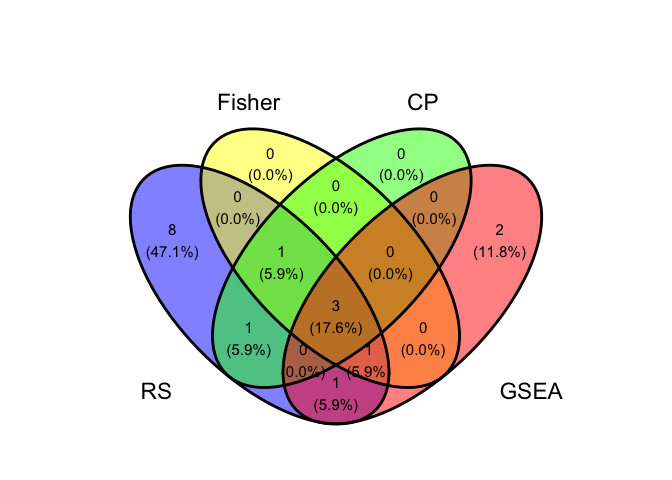
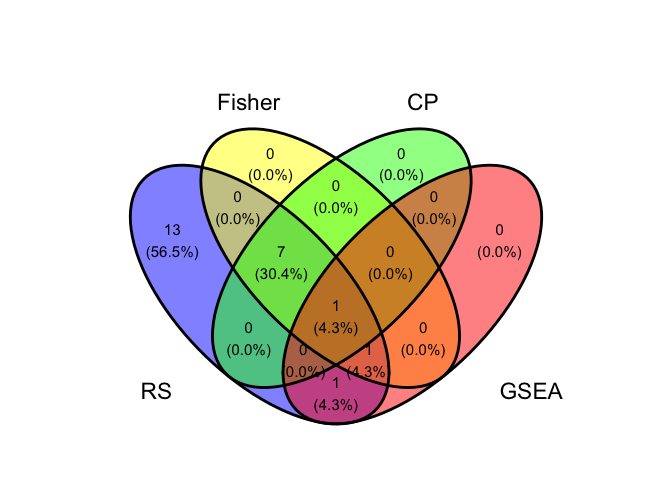
8.10

diff --git a/README.md b/README.md
@@ -14,13 +14,13 @@ output:
 
 # ReporterScore
 
-ReporterScore Functional Enrichment Method for Microbiome
+Reporter Score-based Microbial Enrichment Analysis
 
 # Citation
 
 To cite ReporterScore in publications use:
 
-  Chen Peng, Chao Jiang. ReporterScore: an R package for ReporterScore Functional Enrichment in Microbiome. R package (2023),
+  Chen Peng, Chao Jiang. ReporterScore: an R package for Reporter Score-based Microbial Enrichment Analysis. R package (2023),
   <https://github.com/Asa12138/ReporterScore>
 
 ## Install
@@ -39,7 +39,7 @@ library(ReporterScore)
 
 Typically, we can use [KEGG database](https://www.kegg.jp/kegg/) to annotate our microbiome sequencing data, especially environmental microbiome because KEGG is more comprehensive.
 
-Specific methods include using blast to compare the KEGG sequence database, using KEGG official comparison software, and using the [EggNOG database](http://eggnog5.embl.de/#/app/home) and converting the results into KEGG annotations.
+Specific methods include using blast to align the KEGG sequence database, using KEGG official mapper software, and using the [EggNOG database](http://eggnog5.embl.de/#/app/home) and converting the results into KEGG annotations.
 
 So that we can get a KO abundance table (rows are KOs, columns are samples) for our enrichment analysis:
 
@@ -78,7 +78,7 @@ head(metadata)
 
 ### 2. Pathway database
 
-`ReporterScore` has built-in KEGG pathway and module databases (2023-5 version) for KO abundance table.
+`ReporterScore` has built-in KEGG pathway and module databases (2023-08 version) for KO abundance table.
 
 You can use `load_KOlist()` to have a look and use `update_KO_file()` to update these databases (by KEGG API) as using latest database is very important.
 
@@ -295,9 +295,8 @@ So that you can get reporterscore step by step.
 
 
 ```r
-set.seed(12)
 data("KO_abundance_test")
-reporter_score_res2=reporter_score(KO_abundance,"Group",metadata,mode="mixed",method = "t.test")
+reporter_score_res2=reporter_score(KO_abundance,"Group",metadata,mode="mixed")
 #View(reporter_score_res2$reporter_s)
 #reporter_score
 reporter_score_res2$reporter_s$p.adjust=p.adjust(reporter_score_res2$reporter_s$p.value,"BH")
@@ -310,6 +309,7 @@ filter(fisher_res,p.adjust<0.05)%>%pull(ID)->Fisher
 enrich_res=KO_enrich(ko_pvalue)
 filter(enrich_res,p.adjust<0.05)%>%pull(ID)->clusterProfiler
 #GESA
+set.seed(1234)
 gsea_res=KO_gsea(ko_pvalue)
 filter(gsea_res@result,p.adjust<0.05)%>%pull(ID)->GSEA
 
@@ -330,7 +330,7 @@ venn(venn_res,"network",vertex.label.cex=c(rep(1,4),rep(0.5,22)))
 
 [KEGG BRITE](https://www.genome.jp/kegg/brite.html) is a collection of hierarchical classification systems capturing functional hierarchies of various biological objects, especially those represented as KEGG objects.
 
-We collected k00001 KEGG Orthology (KO) table so that you can summaries each levels abundance. Use `load_KO_htable` to get KO_htable and use `update_KO_htable` to update. Use `up_level_KO` can upgrade to specific level in one of "pathway", "module", "level1", "level2", "level3".
+We collected k00001 KEGG Orthology (KO) table so that you can summaries each levels abundance. Use `load_KO_htable` to get KO_htable and use `update_KO_htable` to update. Use `up_level_KO` can upgrade to specific level in one of "pathway", "module", "level1", "level2", "level3", "module1", "module2", "module3".
 
 
 ```r
